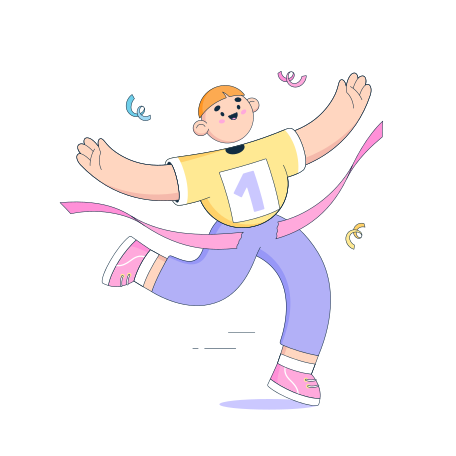
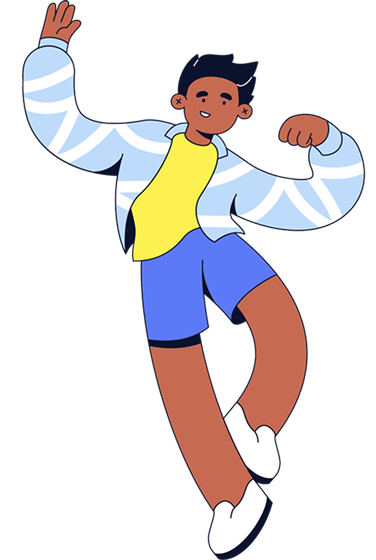
Added final button, updated images

diff --git a/src/games/dimmeddetails/Game.jsx b/src/games/dimmeddetails/Game.jsx
@@ -11,10 +11,7 @@ import robotImage from '../../assets/robot.png';
 import manImage from '../../assets/man_win.png';
 import tieImage from '../../assets/tie.png';
 import GameShell from '../GameShell';
-import { px } from 'framer-motion';
-
-
-
+import './game.css';
 
 
 const DimmedDetailsGame = () =>{
@@ -36,7 +33,7 @@ const DimmedDetailsGame = () =>{
   const MODAL_COLOR = '#B6D5EBBF'; 
 
 // NEW TESTING STATES
-  const [testValue, setTestValue] = useState(100); // state to save value that we want to update and display
+  const [zoomPercent, setZoomPercent] = useState(100); // state to save value that we want to update and display
   const [blurValue, setBlurValue] = useState(10); // state for blur amount so it updates reactively
   const [ballScale, setBallScale] = useState(1); // multiplier for ball size
   const ballsRef = useRef([]); // reference to current balls array for live resizing
@@ -70,30 +67,35 @@ const DimmedDetailsGame = () =>{
 
   const makePositive = () => {
     setBlurValue(v => v - 5);
-    setTestValue(v => v < 200 ? v + 10 : 200);    // increase ball size without moving them
-    const newScale = ballScale + 0.1;
-    setBallScale(newScale);
-    const newRadius = svgHeight.current * 0.10 * newScale;
-    ballsRef.current.forEach(ball => {
-      const circle = ball.element.querySelector('circle');
-      if (circle) circle.setAttribute('r', newRadius);
-    });
-    radius.current = newRadius; // update radius ref for ball movement calculations
+    setZoomPercent(v => v < 200 ? v + 10 : 200); 
+    if (zoomPercent < 200) {   // increase ball size without moving them
+      const newScale = ballScale + 0.1;
+      setBallScale(newScale);
+      const newRadius = svgHeight.current * 0.10 * newScale;
+      ballsRef.current.forEach(ball => {
+        const circle = ball.element.querySelector('circle');
+        if (circle) circle.setAttribute('r', newRadius);
+      });
+    
+      radius.current = newRadius; // update radius ref for ball movement calculations
+
+    }
   };
 
   const makeNegative = () => {
     setBlurValue(v => v + 5);
-    setTestValue(v => v > 60 ? v - 10 : 60);
+    setZoomPercent(v => v > 60 ? v - 10 : 60);
     
-    // decrease ball size without moving them
-    const newScale = Math.max(0.1, ballScale - 0.1);
-    setBallScale(newScale);
-    const newRadius = svgHeight.current * 0.10 * newScale;
-    // setFontSize(newRadius * 2); // scale font size proportionally with ball radius
-    ballsRef.current.forEach(ball => {
-      const circle = ball.element.querySelector('circle');
-      if (circle) circle.setAttribute('r', newRadius);
-    });
+    if (zoomPercent > 60) { // decrease ball size without moving them
+      const newScale = Math.max(0.1, ballScale - 0.1);
+      setBallScale(newScale);
+      const newRadius = svgHeight.current * 0.10 * newScale;
+      // setFontSize(newRadius * 2); // scale font size proportionally with ball radius
+      ballsRef.current.forEach(ball => {
+        const circle = ball.element.querySelector('circle');
+        if (circle) circle.setAttribute('r', newRadius);
+      });
+    }
   };
 
   useEffect(() => {   // resizeObserver to update SVG dimensions for screen orientation changes
@@ -175,12 +177,12 @@ const DimmedDetailsGame = () =>{
       ]
     
 
-    // display the game key
-    if (roundNumber === ROUND_3 || roundNumber === ROUND_4) {
-        gameKeyRef.current.innerHTML = gameKeyMessage3_4;
-    } else {
-        gameKeyRef.current.innerHTML = gameKeyMessage1_2;
-    }
+    // // display the game key
+    // if (roundNumber === ROUND_3 || roundNumber === ROUND_4) {
+    //     gameKeyRef.current.innerHTML = gameKeyMessage3_4;
+    // } else {
+    //     gameKeyRef.current.innerHTML = gameKeyMessage1_2;
+    // }
 
     /************** 
     GAME MECHANICS 
@@ -204,7 +206,7 @@ const DimmedDetailsGame = () =>{
         } else if (didTie) {
           imgRef.current = tieImage;
         } else {
-          imgRef.current = robotImage;
+          imgRef.current = {robotImage};
         }
 
         handleShow() // show popup
@@ -367,20 +369,25 @@ const DimmedDetailsGame = () =>{
         { /* Game msgs + canvas (SVG, announcements) */ }
         <h3 ref={targetColorTextRef} aria-live="assertive" style={blurStyle}>Click the correct color ball</h3>
 
+
         <svg ref={svgRef} className="gameCanvas" preserveAspectRatio="xMidYMid meet" role="group" aria-labelledby="canvas-title" style={blurStyle}>
           <title id="canvas-title">Game canvas with moving balls</title>
         </svg>
 
         { /* Game key */ }
         <div ref={gameKeyRef} id="gameKey"></div>
-        {(roundNumber == 3 || roundNumber == 4) && (
-          <div>
-            <button onClick={makePositive}>+</button>
-            <p id="test"> {testValue} </p>
-            <button onClick={makeNegative}>-</button>
+
+        { /* Game Button */ }
+        {(roundNumber === 3 || roundNumber === 4) && (
+          <div className='buttondiv'>
+            <button className="zoombutton" onClick={makeNegative}>-</button>
+            <p id="zoomPercent">{zoomPercent} %</p>
+            <button className='zoombutton' onClick={makePositive}>+</button>
           </div>
         )}
-      
+
+
+
         { /* Game over modal */ }
         <Modal ref={gameOverPopupRef} show={show} onHide={handleClose} centered>
           <Modal.Header style={{ backgroundColor: MODAL_COLOR}} closeButton>

diff --git a/src/games/dimmeddetails/game.css b/src/games/dimmeddetails/game.css
@@ -1,0 +1,47 @@
+.buttondiv {
+    display: flex;
+    align-items: center;
+    justify-content: center;
+    font-size: 16px;
+    /* This ensures the group doesn't have gaps */
+    gap: 0;
+    padding-bottom: 20px;
+}
+
+.zoombutton {
+    padding: 0.6rem 1rem;
+    border: none;
+    font-size: 1rem;
+    cursor: pointer;
+    background-color: dodgerblue;
+    color: white;
+    display: flex;
+    align-items: center;
+    justify-content: center;
+    border-top: 1px solid dodgerblue;
+    border-bottom: 1px solid dodgerblue;
+}
+
+
+/* Round only the outer left corner of the first button */
+.zoombutton:first-child {
+    border-radius: 0.35rem 0 0 0.35rem;
+}
+
+/* Round only the outer right corner of the last button */
+.zoombutton:last-child {
+    border-radius: 0 0.35rem 0.35rem 0;
+}
+
+
+#zoomPercent {
+    background-color: white;
+    margin: 0; /* Remove default paragraph margins */
+    padding: 0.6rem 1.5rem;
+    min-width: 40px;
+    text-align: center;
+    color: dodgerblue;
+    /* Optional: adds a thin border to define the white area better */
+    border-top: 1px solid dodgerblue;
+    border-bottom: 1px solid dodgerblue;
+}

diff --git a/src/pages/DimmedDetails/DimmedDetailsRound1InstructionPage.js b/src/pages/DimmedDetails/DimmedDetailsRound1InstructionPage.js
@@ -11,8 +11,8 @@ import { useNavigate, useParams } from 'react-router-dom';
 function DimmedDetailsInstructionPage() {
   // Instruction content for Round 1
   const instructions = [
-    "In this round, you will have 30 seconds to pop as many red or green balloons as possible.",
-    "You will see instructions to pop either a red or green balloon displayed underneath the time bar.",
+    "In this round, you will have 30 seconds to pop as many red or green shapes as possible.",
+    "You will see instructions to pop either a red or green shapes displayed underneath the time bar.",
     "Popping the correct color increases your score, while popping the incorrect color decreases your score and increases the computer's.",
     "Click the arrow to begin!"
   ];

diff --git a/src/pages/DimmedDetails/DimmedDetailsRound2InstructionPage.js b/src/pages/DimmedDetails/DimmedDetailsRound2InstructionPage.js
@@ -11,8 +11,8 @@ import { useNavigate, useParams } from 'react-router-dom';
 function DimmedDetailsInstructionPage() {
   // Instruction content for Round 1
   const instructions = [
-    "In this round, you will have 30 seconds to pop as many red or green balloons as possible.",
-    "You will see instructions to pop either a red or green balloon displayed underneath the time bar.",
+    "In this round, you will have 30 seconds to pop as many red or green shapes as possible.",
+    "You will see instructions to pop either a red or green shapes displayed underneath the time bar.",
     "Popping the correct color increases your score, while popping the incorrect color decreases your score and increases the computer's.",
     "Click the arrow to begin!"
   ];

diff --git a/src/pages/DimmedDetails/DimmedDetailsRound3InstructionPage.js b/src/pages/DimmedDetails/DimmedDetailsRound3InstructionPage.js
@@ -11,8 +11,8 @@ import { useNavigate, useParams } from 'react-router-dom';
 function DimmedDetailsInstructionPage() {
   // Instruction content for Round 1
   const instructions = [
-    "In this round, you will have 30 seconds to pop as many red or green balloons as possible.",
-    "You will see instructions to pop either a red or green balloon displayed underneath the time bar.",
+    "In this round, you will have 30 seconds to pop as many red or green shapes as possible.",
+    "You will see instructions to pop either a red or green shapes displayed underneath the time bar.",
     "Popping the correct color increases your score, while popping the incorrect color decreases your score and increases the computer's.",
     "Click the arrow to begin!"
   ];

diff --git a/src/pages/DimmedDetails/DimmedDetailsRound4InstructionPage.js b/src/pages/DimmedDetails/DimmedDetailsRound4InstructionPage.js
@@ -11,8 +11,8 @@ import { useNavigate, useParams } from 'react-router-dom';
 function DimmedDetailsInstructionPage() {
   // Instruction content for Round 1
   const instructions = [
-    "In this round, you will have 30 seconds to pop as many red or green balloons as possible.",
-    "You will see instructions to pop either a red or green balloon displayed underneath the time bar.",
+    "In this round, you will have 30 seconds to pop as many red or green shapes as possible.",
+    "You will see instructions to pop either a red or green shapes displayed underneath the time bar.",
     "Popping the correct color increases your score, while popping the incorrect color decreases your score and increases the computer's.",
     "Click the arrow to begin!"
   ];

diff --git a/src/components/Footer.js b/src/components/Footer.js
@@ -6,7 +6,7 @@ function Footer() {
       <Container>
         <div className="text-center">
           <p className="mb-2" style={{fontSize: '14px'}}>
-            <strong>Disclaimer:</strong> These activities are educational simulations and may not fully represent 
+            <strong>Disclaimer:</strong> These activities are educational and may not fully represent 
             the experiences of individuals with specific conditions. They are simplified to raise awareness 
             and foster understanding.
           </p>
